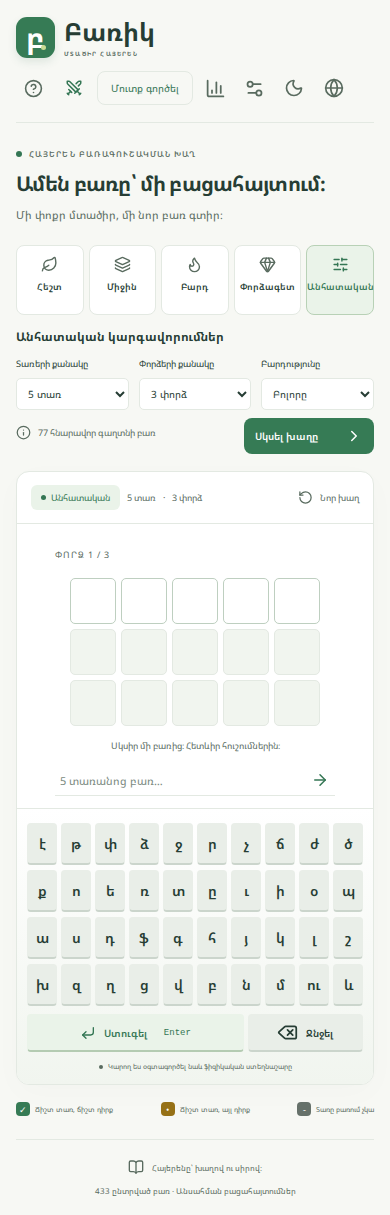
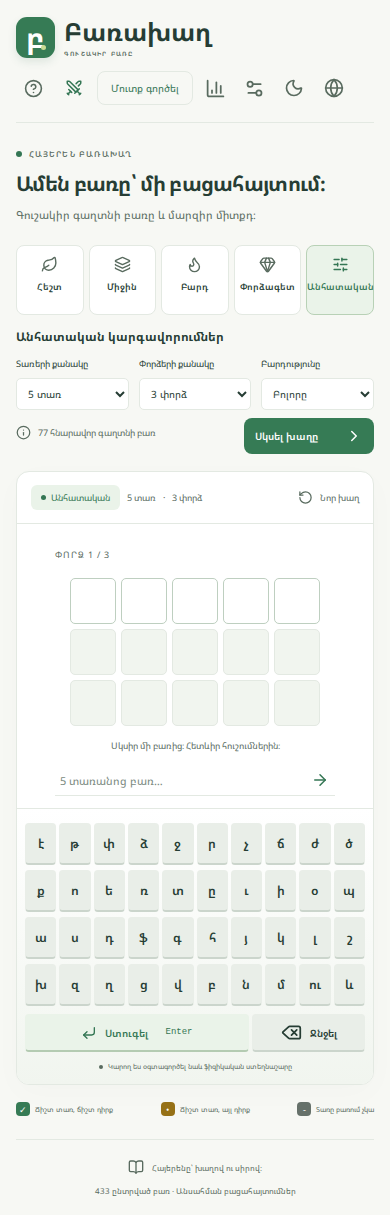
Rename the product to Բառախաղ and harden the on-screen keyboard.
Replace Բառիկ/Barrik branding with Բառախաղ and the «Գուշակիր բառը» tagline, correct stale −25 scoring copy, keep every Armenian letter (including խ) visible on narrow screens, and bump the service worker cache so clients pick up the release.

diff --git a/src/i18n/translations.ts b/src/i18n/translations.ts
@@ -77,7 +77,7 @@ export const translations = {
         not_found: 'Գործողությունը չի գտնվել։',
       },
     },
-    title: 'Բառիկ',
+    title: 'Բառախաղ',
     help: 'Օգնություն',
     stats: 'Վիճակագրություն',
     settings: 'Կարգավորումներ',
@@ -166,7 +166,7 @@ export const translations = {
     },
     theme: { light: 'Լուսավոր', dark: 'Մութ' },
     errors: {
-      loadingDictionary: 'Բառարանը բեռնվում է...',
+      loadingDictionary: 'Բառարանը բեռնվում է…',
       dictionaryError: 'Բառարանը չհաջողվեց բեռնել',
       retry: 'Կրկին փորձել',
     },
@@ -191,7 +191,7 @@ export const translations = {
       points: 'միավոր',
       submit: 'Ուղարկել',
       correct: 'Ճիշտ է։',
-      wrong: 'Սխալ փորձ՝ −25 միավոր',
+      wrong: 'Սխալ վավեր փորձ՝ −5 միավոր',
       roundFinished: 'Փուլն ավարտվեց։ Հաջորդը շուտով։',
       next: 'Հաջորդ փուլը պատրաստվում է…',
       over: 'Battle-ն ավարտվեց',
@@ -228,10 +228,10 @@ export const translations = {
       howToPlay: 'Ինչպե՞ս խաղալ',
       themeDarkAction: 'Միացնել մութ թեման',
       themeLightAction: 'Միացնել լուսավոր թեման',
-      tagline: 'ՄՏԱԾԻՐ ՀԱՅԵՐԵՆ',
-      eyebrow: 'ՀԱՅԵՐԵՆ ԲԱՌԱԳՈՒՇԱԿՄԱՆ ԽԱՂ',
+      tagline: 'ԳՈՒՇԱԿԻՐ ԲԱՌԸ',
+      eyebrow: 'ՀԱՅԵՐԵՆ ԲԱՌԱԽԱՂ',
       headline: 'Ամեն բառը՝ մի բացահայտում։',
-      subtitle: 'Մի փոքր մտածիր, մի նոր բառ գտիր։',
+      subtitle: 'Գուշակիր գաղտնի բառը և մարզիր միտքդ։',
       yourGame: 'ՔՈ ԽԱՂԸ',
       chooseChallenge: 'Ընտրիր մարտահրավերը',
       smallSteps: 'Փոքր քայլերից մինչև մեծ բառեր։',
@@ -368,7 +368,7 @@ export const translations = {
         not_found: 'Action not found.',
       },
     },
-    title: 'Barrik',
+    title: 'Barakhagh',
     help: 'Help',
     stats: 'Statistics',
     settings: 'Settings',
@@ -475,7 +475,7 @@ export const translations = {
       points: 'points',
       submit: 'Submit',
       correct: 'Correct.',
-      wrong: 'Wrong guess: −25 points',
+      wrong: 'Wrong valid guess: −5 points',
       roundFinished: 'Round finished. Next one soon.',
       next: 'Preparing the next round…',
       over: 'Battle complete',
@@ -511,10 +511,10 @@ export const translations = {
       howToPlay: 'How to play',
       themeDarkAction: 'Enable dark theme',
       themeLightAction: 'Enable light theme',
-      tagline: 'THINK IN ARMENIAN',
-      eyebrow: 'ARMENIAN WORD GUESSING GAME',
+      tagline: 'GUESS THE WORD',
+      eyebrow: 'ARMENIAN WORD GAME',
       headline: 'Every word is a discovery.',
-      subtitle: 'Take a moment. Find a new word.',
+      subtitle: 'Guess the secret word and train your mind.',
       yourGame: 'YOUR GAME',
       chooseChallenge: 'Choose your challenge',
       smallSteps: 'From small steps to bigger words.',
@@ -651,7 +651,7 @@ export const translations = {
         not_found: 'Действие не найдено.',
       },
     },
-    title: 'Барик',
+    title: 'Барахах',
     help: 'Справка',
     stats: 'Статистика',
     settings: 'Параметры',
@@ -766,7 +766,7 @@ export const translations = {
       points: 'очков',
       submit: 'Отправить',
       correct: 'Верно.',
-      wrong: 'Неверная попытка: −25 очков',
+      wrong: 'Неверная допустимая попытка: −5 очков',
       roundFinished: 'Раунд завершён. Следующий скоро.',
       next: 'Готовим следующий раунд…',
       over: 'Battle завершена',
@@ -802,10 +802,10 @@ export const translations = {
       howToPlay: 'Как играть',
       themeDarkAction: 'Включить тёмную тему',
       themeLightAction: 'Включить светлую тему',
-      tagline: 'ДУМАЙ ПО-АРМЯНСКИ',
-      eyebrow: 'АРМЯНСКАЯ ИГРА В УГАДЫВАНИЕ СЛОВ',
+      tagline: 'УГАДАЙ СЛОВО',
+      eyebrow: 'АРМЯНСКАЯ СЛОВЕСНАЯ ИГРА',
       headline: 'Каждое слово — открытие.',
-      subtitle: 'Подумай немного и найди новое слово.',
+      subtitle: 'Угадай тайное слово и потренируй ум.',
       yourGame: 'ТВОЯ ИГРА',
       chooseChallenge: 'Выбери испытание',
       smallSteps: 'От коротких до больших слов.',

diff --git a/src/styles.css b/src/styles.css
@@ -690,31 +690,38 @@ h1 > span {
   border-top: 1px solid var(--border);
 }
 .keyboard {
-  max-width: 520px;
+  width: 100%;
+  max-width: min(520px, 100%);
   margin: auto;
   display: flex;
   flex-direction: column;
   gap: 6px;
+  overflow: visible;
 }
 .key-row {
   display: flex;
-  justify-content: center;
+  justify-content: stretch;
+  align-items: stretch;
   gap: 5px;
+  width: 100%;
+  min-width: 0;
 }
 .key {
   min-width: 0;
   width: 100%;
-  flex: 1;
-  max-width: 48px;
+  flex: 1 1 0;
+  max-width: none;
   height: 41px;
   border: 1px solid transparent;
   border-bottom: 2px solid #cbd5cc;
   background: var(--key);
   border-radius: 5px;
-  font-size: 16px;
+  font-size: clamp(12px, 2.8vw, 16px);
   font-weight: 600;
   position: relative;
   text-transform: none;
+  padding: 0;
+  line-height: 1;
 }
 .key small {
   font-size: 8px;
@@ -1334,17 +1341,17 @@ dialog::backdrop {
     max-width: 280px;
   }
   .keyboard-section {
-    padding: 14px 10px 13px;
+    padding: 14px 8px 13px;
   }
   .keyboard {
     gap: 5px;
   }
   .key-row {
-    gap: 4px;
+    gap: 3px;
   }
   .key {
     height: 42px;
-    font-size: 14px;
+    font-size: clamp(11px, 3.2vw, 14px);
     border-radius: 4px;
   }
   .enter-key,

diff --git a/public/sw.js b/public/sw.js
@@ -1,5 +1,5 @@
 /* global self, caches, fetch */
-const CACHE = 'barrik-public-v3';
+const CACHE = 'barakhagh-public-v1';
 self.addEventListener('install', (event) =>
   event.waitUntil(
     caches
@@ -12,10 +12,18 @@ self.addEventListener('activate', (event) => {
   event.waitUntil(
     (async () => {
       const keys = await caches.keys();
-      const legacy = keys.some((key) => key === 'barrik-shell-v1' || key === 'barrik-shell-v2');
+      const legacy = keys.some(
+        (key) =>
+          key === 'barrik-shell-v1' ||
+          key === 'barrik-shell-v2' ||
+          key.startsWith('barrik-public-'),
+      );
       await Promise.all(
         keys
-          .filter((key) => key.startsWith('barrik-') && key !== CACHE)
+          .filter(
+            (key) =>
+              (key.startsWith('barrik-') || key.startsWith('barakhagh-')) && key !== CACHE,
+          )
           .map((key) => caches.delete(key)),
       );
       await self.clients.claim();

diff --git a/index.html b/index.html
@@ -6,10 +6,10 @@
     <meta name="theme-color" content="#f7f8f4" />
     <meta
       name="description"
-      content="Բառիկ՝ հայերեն բառագուշակման խաղ։ Գուշակիր բառը, մարզիր միտքդ և բացահայտիր հայերենը։"
+      content="Բառախաղ՝ հայերեն բառագուշակման խաղ։ Գուշակիր բառը, մարզիր միտքդ և բացահայտիր հայերենը։"
     />
     <link rel="icon" type="image/svg+xml" href="/favicon.svg" />
-    <title>Բառիկ — ամեն բառը մի բացահայտում</title>
+    <title>Բառախաղ — գուշակիր բառը</title>
   </head>
   <body>
     <div id="root"></div>

diff --git a/src/components/Keyboard.tsx b/src/components/Keyboard.tsx
@@ -7,7 +7,7 @@ const rows = [
   ['ք', 'ո', 'ե', 'ռ', 'տ', 'ը', 'ւ', 'ի', 'օ', 'պ'],
   ['ա', 'ս', 'դ', 'ֆ', 'գ', 'հ', 'յ', 'կ', 'լ', 'շ'],
   ['խ', 'զ', 'ղ', 'ց', 'վ', 'բ', 'ն', 'մ', 'ու', 'և'],
-];
+] as const;
 export function Keyboard({
   state,
   onKey,

diff --git a/README.md b/README.md
@@ -1,8 +1,8 @@
 <div align="center">
 
-# Բառիկ · Barrik
+# Բառախաղ · Barakhagh
 
-**Հայերեն բառեր։ Ընկերական մրցակցություն։ Ամեն օր՝ նոր բացահայտում։**
+**Գուշակիր բառը։ Ընկերական մրցակցություն։ Ամեն օր՝ նոր բացահայտում։**
 
 [Խաղալ առցանց](https://armworldgame.duckdns.org) · [Գրանցվել](https://armworldgame.duckdns.org/#register) · [Battle](https://armworldgame.duckdns.org/#battle)
 
@@ -10,7 +10,7 @@ React · TypeScript · WebSocket · PWA
 
 </div>
 
-![Բառիկի մենախաղը](docs/screenshots/desktop.png)
+![Բառախաղի մենախաղը](docs/screenshots/desktop.png)
 
 ## Խաղա քո ձևով
 
